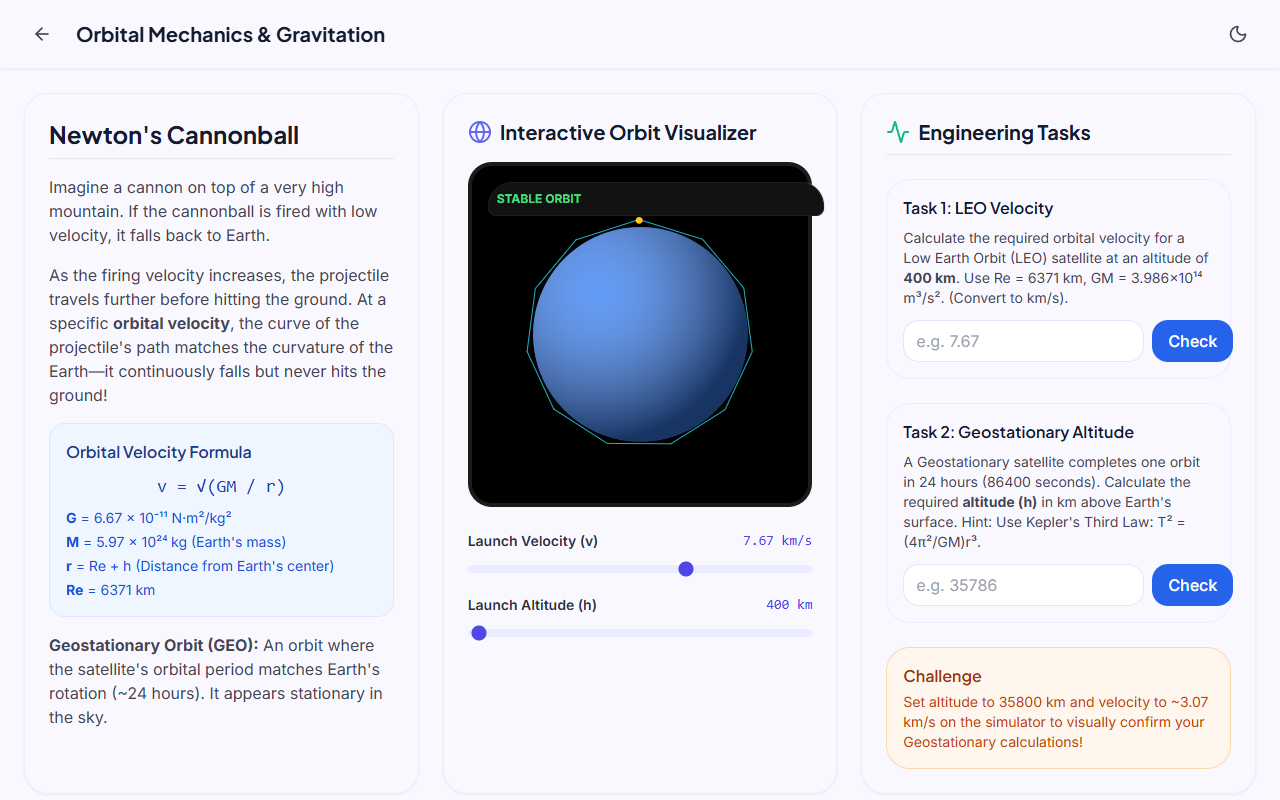
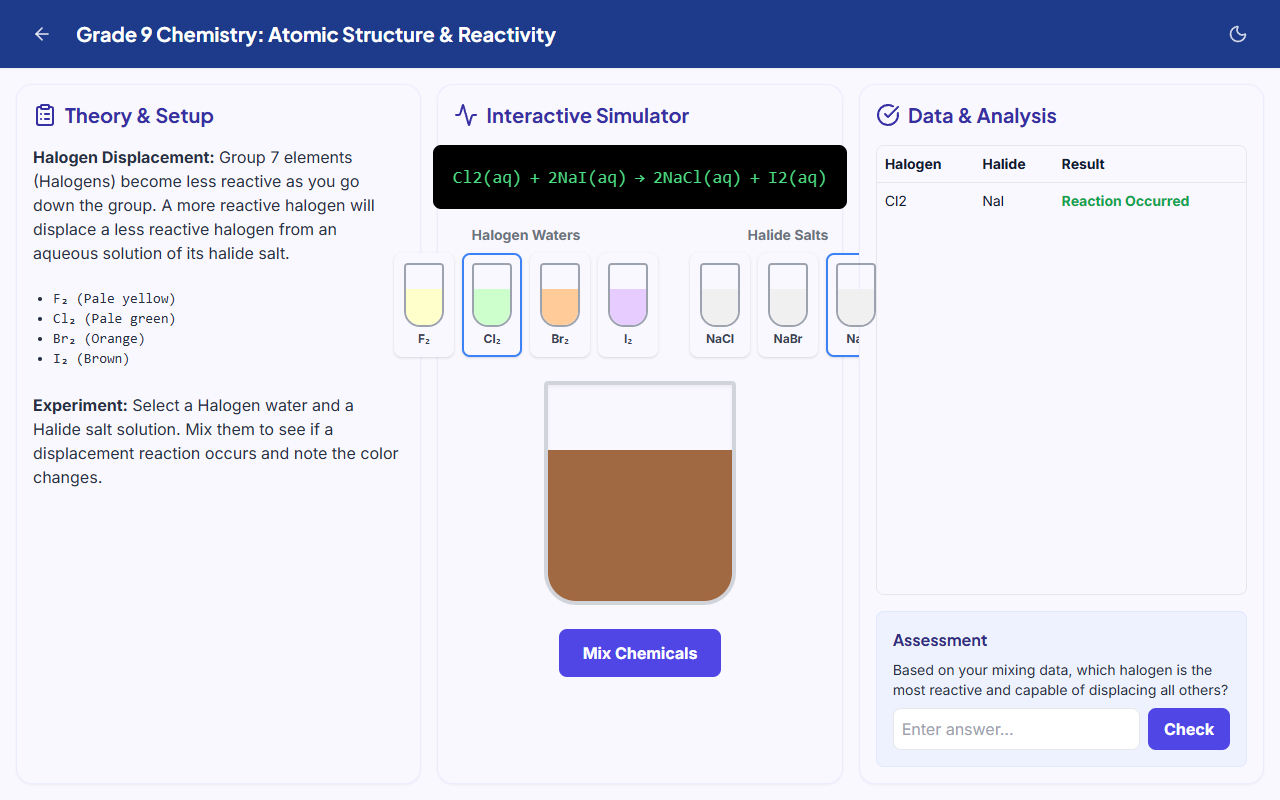
Readme updated

diff --git a/README.md b/README.md
@@ -1,6 +1,31 @@
 # Cendronyx Labs
 
+<p align="center">
+  <a href="https://virtuallab-seven.vercel.app/"><img src="https://img.shields.io/badge/Live_Demo-Try_It-brightgreen?style=for-the-badge&logo=vercel&logoColor=white" alt="Live Demo"></a>
+  <a href="https://github.com/Mashhood16/virtuallab"><img src="https://img.shields.io/badge/Version-0.0.0-blue?style=for-the-badge&logo=github" alt="Version"></a>
+  <img src="https://img.shields.io/badge/React-19.2-61DAFB?style=for-the-badge&logo=react&logoColor=black" alt="React">
+  <img src="https://img.shields.io/badge/TypeScript-6.0-3178C6?style=for-the-badge&logo=typescript&logoColor=white" alt="TypeScript">
+  <img src="https://img.shields.io/badge/Vite-8.0-646CFF?style=for-the-badge&logo=vite&logoColor=white" alt="Vite">
+  <img src="https://img.shields.io/badge/Tailwind-3.4-06B6D4?style=for-the-badge&logo=tailwindcss&logoColor=white" alt="Tailwind CSS">
+  <img src="https://img.shields.io/badge/Deploy-Vercel-black?style=for-the-badge&logo=vercel&logoColor=white" alt="Deployed on Vercel">
+  <img src="https://img.shields.io/badge/License-Proprietary-red?style=for-the-badge" alt="License">
+  <img src="https://img.shields.io/badge/PWA-Offline_First-F48C06?style=for-the-badge" alt="PWA">
+</p>
+
 > **Cendronyx Labs is an offline-first Progressive Web App that delivers 464 interactive simulations for Science, Mathematics, Computer Science, and English, aligned with Grades 6–12 curricula. Designed for schools with limited internet access, it transforms traditional lessons into immersive, hands-on learning experiences.**
+
+## 📑 Table of Contents
+
+- [Vision](#-vision)
+- [Live Demo](#-live-demo)
+- [Screenshots](#-screenshots)
+- [Key Features](#-key-features)
+- [What Cendronyx Labs Does](#-what-this-web-app-does)
+- [Offline Architecture](#-offline-first--pwa-architecture)
+- [Curriculum](#-curriculum-breakdown)
+- [Roadmap](#-roadmap)
+- [Technology Stack](#-technology-stack)
+
 
 ## 👁️ Vision
 To make high-quality interactive STEM and language education accessible to every student in Pakistan, regardless of internet connectivity or laboratory resources.
@@ -33,7 +58,7 @@ Try Cendronyx Labs now — no installation required:
 - ✅ **Real-time simulations** driven by dynamic inputs.
 - ✅ **Curriculum organized** systematically by grade and subject.
 
-## 🚀 What This Web App Does
+## 📖 What This Web App Does
 This application serves as a massive suite of **interactive educational simulations**. It replaces static textbook diagrams with dynamic, interactive digital laboratories where students can tweak parameters (like voltage, temperature, mass, and velocity) and instantly observe real-time visual results. 
 
 Each module in the application typically features a meticulously balanced three-column layout (on desktop) consisting of:
@@ -137,3 +162,5 @@ We are continuously expanding Cendronyx Labs. Here's what's on the horizon:
 - **Icons**: Lucide React
 - **Animations/Visuals**: React state-driven SVG manipulations
 - **Architecture**: Component-based architecture with robust mobile-responsive CSS flexbox implementations.
+
+